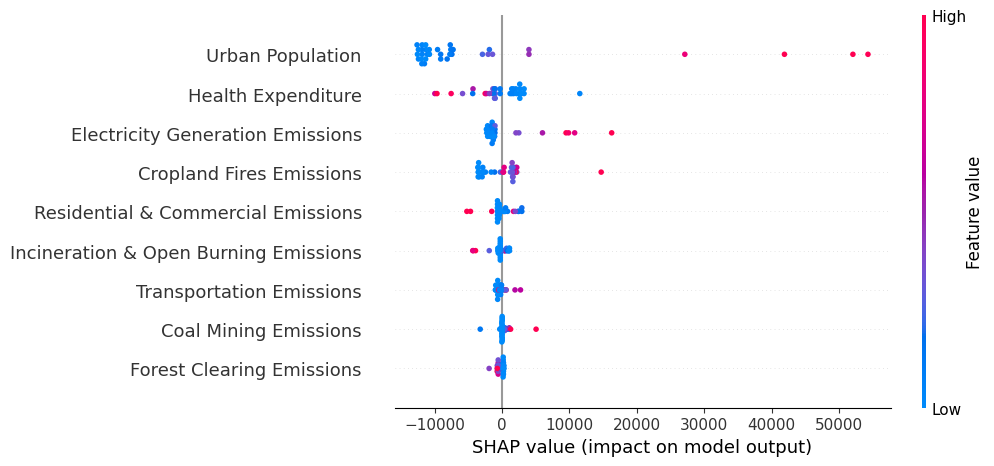
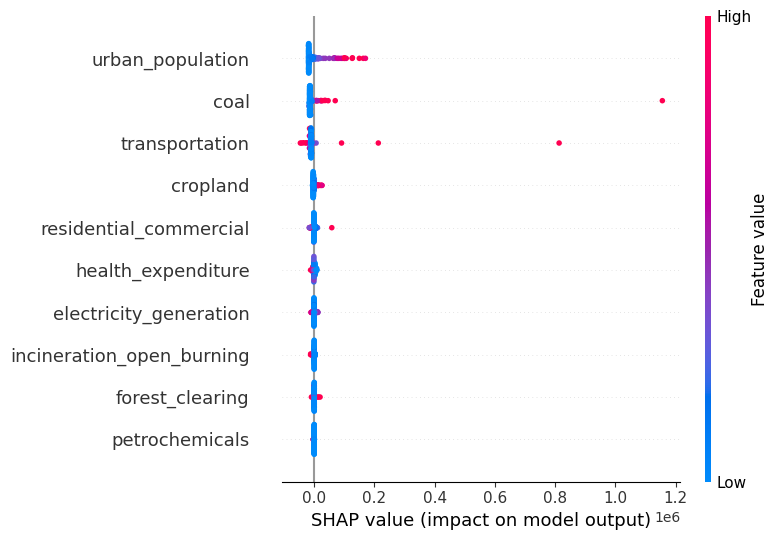
update beeswarm plot image

diff --git a/launch_coding_test.py b/launch_coding_test.py
@@ -313,10 +313,16 @@ def train_model(df):
 
 def generate_beeswarm_plot(model, X_train_val):
     explainer = shap.Explainer(model, X_train_val)
-    # shap_values = explainer.shap_values(X_train_val, check_additivity=False)
     shap_values = explainer(X_train_val)
-    shap.summary_plot(shap_values, X_train_val, plot_type="dot")
-
+    
+    # Generate SHAP plot without displaying it
+    shap.summary_plot(shap_values, X_train_val, plot_type="dot", show=False)
+    
+    # Save the current figure generated by SHAP
+    fig = plt.gcf()  # Get the current figure
+    fig.savefig("beeswarm_plot.png", bbox_inches='tight')  
+    
+    plt.close(fig) 
 
 def generate_html_file(merged_data, train_r2, test_r2):
     merged_data['Country Code'] = merged_data['Country Code'].str.strip()  # Ensure clean data

diff --git a/popullation.py b/popullation.py
@@ -4,6 +4,8 @@ import xgboost as xgb
 import shap
 import random
 import matplotlib.pyplot as plt
+import matplotlib
+matplotlib.use('Agg')  # Use non-interactive backend to prevent plots from popping up
 import plotly.express as px
 from sklearn.model_selection import train_test_split
 from sklearn.preprocessing import StandardScaler
